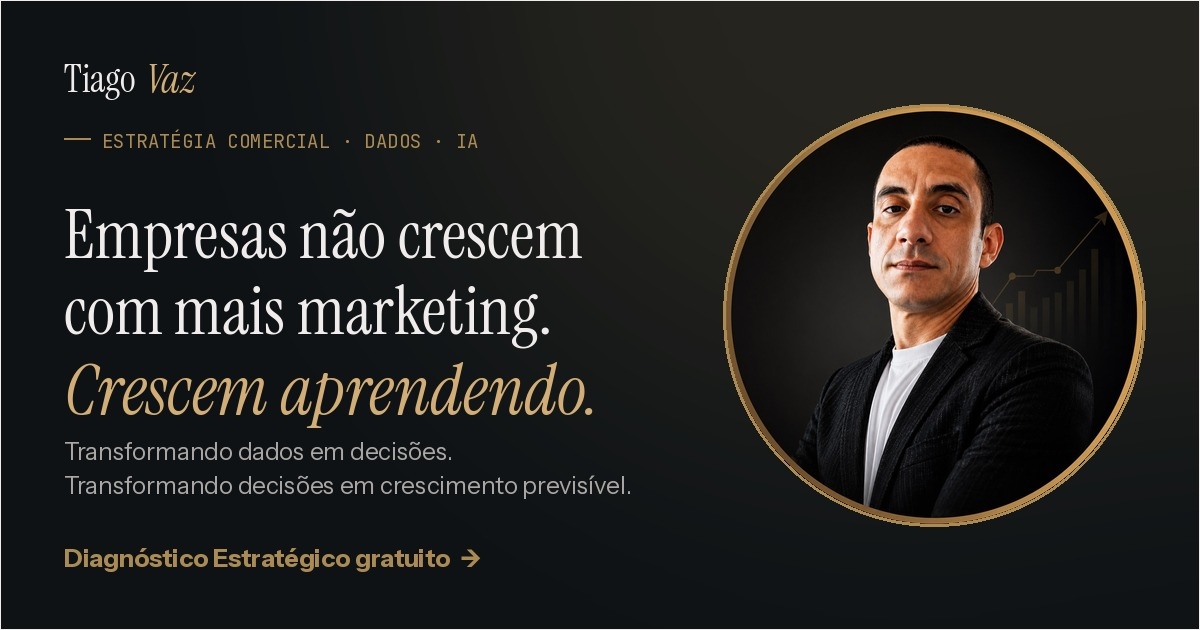
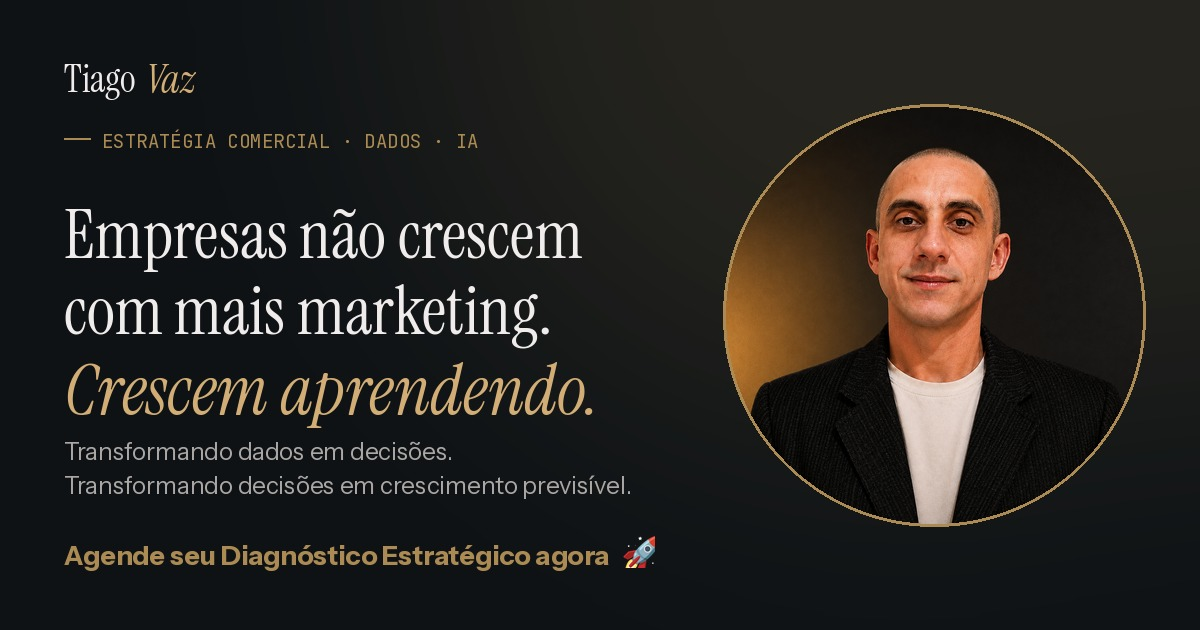
Add files via upload

diff --git a/components/sections/footer.tsx b/components/sections/footer.tsx
@@ -46,11 +46,11 @@ export function Footer() {
             <ul className="mt-5 space-y-3.5">
               <li>
                 <a
-                  href="mailto:tiago@tiagovaz.com.br"
+                  href="mailto:tiago@tiagovaz.online"
                   className="flex items-center gap-2.5 text-[0.92rem] text-foreground/65 hover:text-primary"
                 >
                   <Mail className="h-4 w-4" strokeWidth={1.8} />
-                  tiago@tiagovaz.com.br
+                  tiago@tiagovaz.online
                 </a>
               </li>
               <li>
@@ -61,7 +61,7 @@ export function Footer() {
                   className="flex items-center gap-2.5 text-[0.92rem] text-foreground/65 hover:text-primary"
                 >
                   <Instagram className="h-4 w-4" strokeWidth={1.8} />
-                  @tiago_vaz_br
+                  Instagram
                 </a>
               </li>
               <li>
